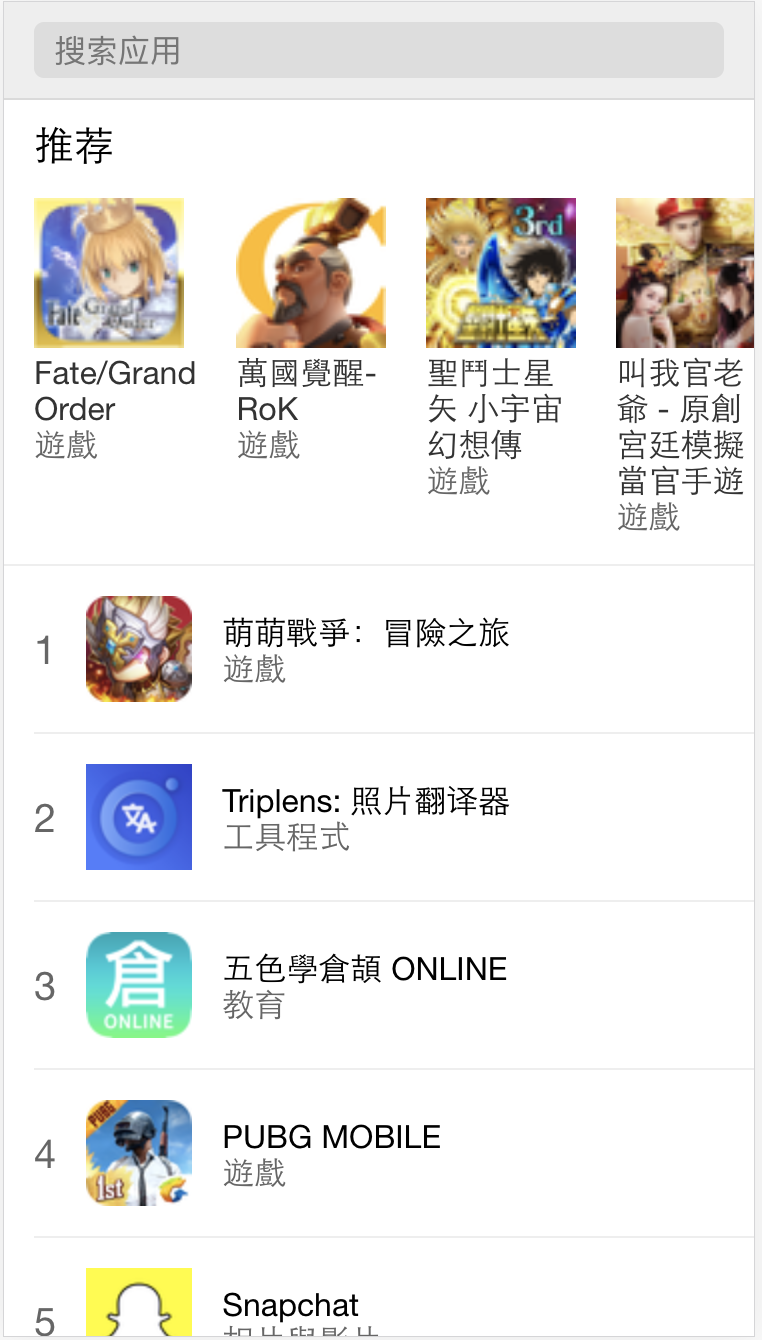
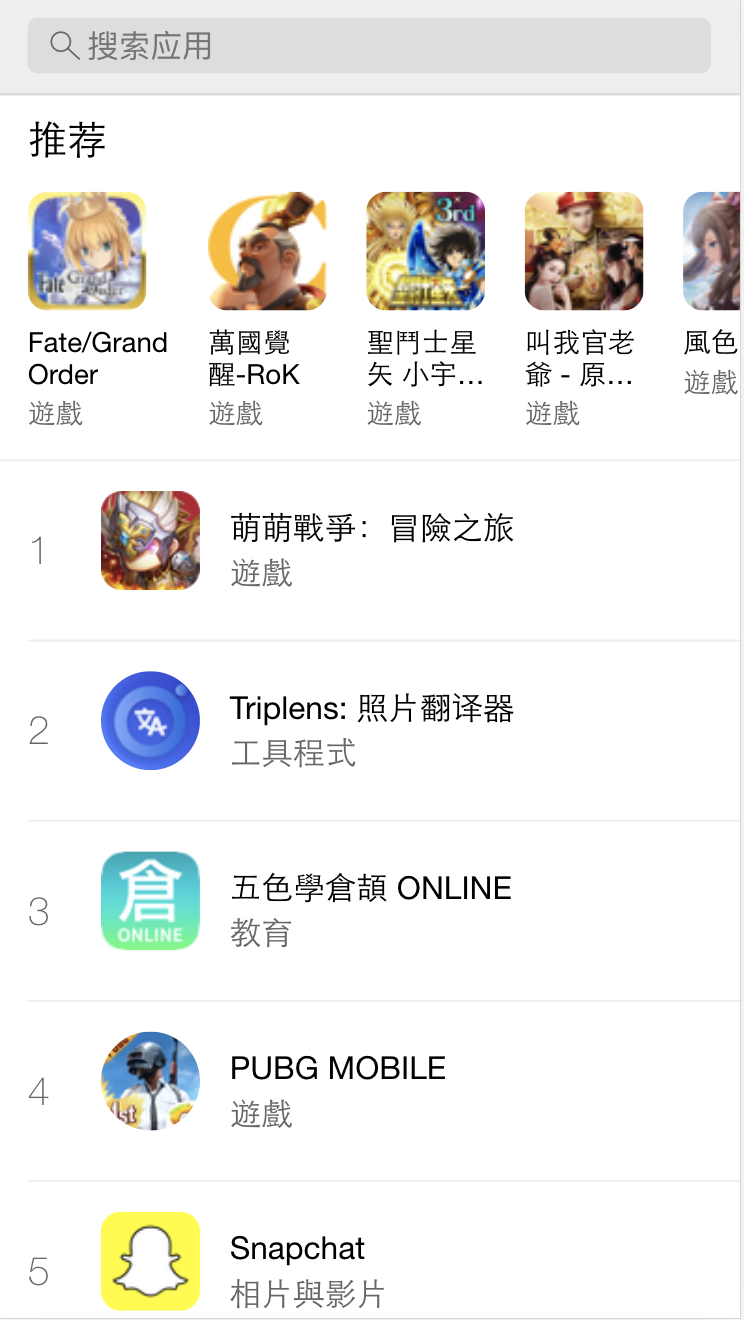
update

diff --git a/src/components/recommend/Recommend.js b/src/components/recommend/Recommend.js
@@ -1,5 +1,4 @@
 import React, { Component } from 'react';
-import LazyLoad from 'react-lazy-load';
 import './Recommend.scss';
 class Recommend extends Component {
     render() {
@@ -11,9 +10,7 @@ class Recommend extends Component {
                         this.props.list.map((item,index)=>{
                             return(
                                 <li className='app-item' key={index}>
-                                    <LazyLoad width={60} height={60} offsetHorizontal={100}>
-                                        <img className='app-icon' src={item['im:image'][0].label} alt="" />
-                                    </LazyLoad>
+                                    <img className='app-icon' src={item['im:image'][0].label} alt="" />
                                     <div className='app-name'>{item['im:name'].label}</div>
                                     <div className='app-categray'>{item.category.attributes.label}</div>
                                 </li>

diff --git a/src/pages/search_result/SearchResult.js b/src/pages/search_result/SearchResult.js
@@ -4,7 +4,7 @@ import Search from '../../components/search/Search';
 import SearchList from '../../components/search_list/SearchList';
 import './SearchResult.scss';
 import $api from '../../api/index.js';
-import { saveSearchList } from '../../store/action'
+import { saveSearchList, removeSearchList } from '../../store/action'
 class SearchResult extends Component {
   constructor(props){
     super(props);
@@ -31,8 +31,11 @@ class SearchResult extends Component {
 
   onFoucs() {
   }
+
   onCancel(){
     this.props.history.push("/");
+    // 删除历史结果
+    this.props.removeSearchList();
   }
 
 
@@ -52,7 +55,8 @@ const mapStateToProps = (state) => ({
 })
 
 const mapDispatchToProps = (dispatch) => ({
-  saveSearchList: searchList => dispatch(saveSearchList(searchList))
+  saveSearchList: searchList => dispatch(saveSearchList(searchList)),
+  removeSearchList: () => dispatch(removeSearchList())
 })
 
 // 通过connect生成容器组件

diff --git a/src/plugins/axios.js b/src/plugins/axios.js
@@ -1,5 +1,5 @@
 import axios from 'axios'
-import { showFullScreenLoading, hideFullScreenLoading} from '../utils/commons'
+import { showFullScreenLoading, hideFullScreenLoading, showFailToast} from '../utils/commons'
 
 let baseURL = '/';
 const _axios = axios.create({
@@ -29,6 +29,8 @@ _axios.interceptors.response.use(function (response) {
   return response.data;
 }, function (error) {
   // Do something with response error
+  hideFullScreenLoading();
+  showFailToast();
   return Promise.reject(error);
 });
 

diff --git a/public/index.html b/public/index.html
@@ -19,7 +19,7 @@
       work correctly both with client-side routing and a non-root public URL.
       Learn how to configure a non-root public URL by running `npm run build`.
     -->
-    <title>React App</title>
+    <title>AppStore</title>
   </head>
   <body>
     <noscript>You need to enable JavaScript to run this app.</noscript>

diff --git a/src/store/reducers.js b/src/store/reducers.js
@@ -13,6 +13,11 @@ export default(state = defaultState, action={})=>{
         ...state,
         searchList: action.searchList
       }
+    case types.REMOVE_SERACH_LIST:
+      return{
+        ...state,
+        searchList:[]
+      }
     default:
       return state
   }

diff --git a/src/pages/search_result/SearchResult.scss b/src/pages/search_result/SearchResult.scss
@@ -1,3 +1,11 @@
 .searchResult-container{
-  
+  background: #fff;
+  min-height: 1334px;
+  padding-top: 92px;
+  .search-bar{
+    position: fixed;
+    left: 0;
+    top: 0;
+    z-index: 999;
+  }
 }

diff --git a/src/utils/commons.js b/src/utils/commons.js
@@ -16,6 +16,10 @@ function hideLoading(){
   Toast.hide();
 }
 
+export function showFailToast(){
+  Toast.fail('服务器错误',2);
+}
+
 
 /**
  * 合并请求，同一时刻只显示一个loading

diff --git a/src/components/recommend/Recommend.scss b/src/components/recommend/Recommend.scss
@@ -21,6 +21,7 @@
       border-radius: 20px;
     }
     .app-name{
+      margin-top: 10px;
       text-overflow: -o-ellipsis-lastline;
       overflow: hidden;
       text-overflow: ellipsis;

diff --git a/src/store/action.js b/src/store/action.js
@@ -7,3 +7,9 @@ export const saveSearchList = (searchList) => {
     searchList
   }
 }
+
+export const removeSearchList = () => {
+  return {
+    type: types.REMOVE_SERACH_LIST
+  }
+}

diff --git a/src/store/action-types.js b/src/store/action-types.js
@@ -1,2 +1,4 @@
 // 搜索结果
 export const SAVE_SERACH_LIST = 'SAVE_SERACH_LIST'
+// 清除历史结果
+export const REMOVE_SERACH_LIST = 'REMOVE_SERACH_LIST'

diff --git a/src/pages/Home.scss b/src/pages/Home.scss
@@ -1,6 +1,7 @@
 .container{
   position: relative;
   padding-top: 92px;
+  background: #fff;
   .search-bar{
     position: fixed;
     left: 0;
